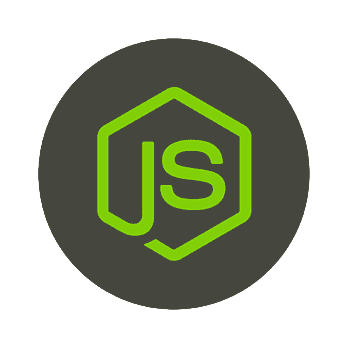
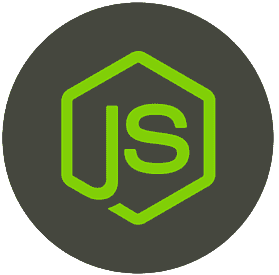
Adding skill section row

diff --git a/components/skills.jsx b/components/skills.jsx
@@ -13,10 +13,10 @@ function Skills(){
           {SKILLS.map(({ id,name,img_src }) => (
             <div
               key={id}
-              className="flex flex-col sm: items-center justify-between p-6  lg:flex-row gap-10 lg:gap-0 items-center justify-between p-6 shadow-lg rounded-xl hover:scale-105 ease-in duration-300
+              className="flex sm:flex flex-row items-center justify-between p-6  lg:flex-row gap-10 lg:gap-0 items-center justify-between p-6 shadow-lg rounded-xl hover:scale-105 ease-in duration-300
               odd:shadow-rose-400 even:shadow-blue-400"
             >
-              <Image src={img_src} width="64px" height="64px" alt={name} />
+              <Image src={img_src} width="64px" height="64px" className="object-contain" alt={name} />
               <h3 className="font-light">{name}</h3>
             </div>
           ))}

diff --git a/components/constants.js b/components/constants.js
@@ -1,7 +1,7 @@
 import LOGO from "../assets/images/Dnyanesh_Bachhav_Circular.png";
 import HTML from "../assets/images/Skills/Html.png";
 import CSS from "../assets/images/Skills/CSS.png";
-import JAVASCRIPT from "../assets/images/Skills/Javascript.jpg";
+import JAVASCRIPT from "../assets/images/Skills/Javascript.png";
 import TAILWIND from "../assets/images/Skills/Tailwind.png";
 import NODE_JS from "../assets/images/Skills/Node_JS.png";
 import React_Logo from '../assets/images/Skills/React_Logo.png';
